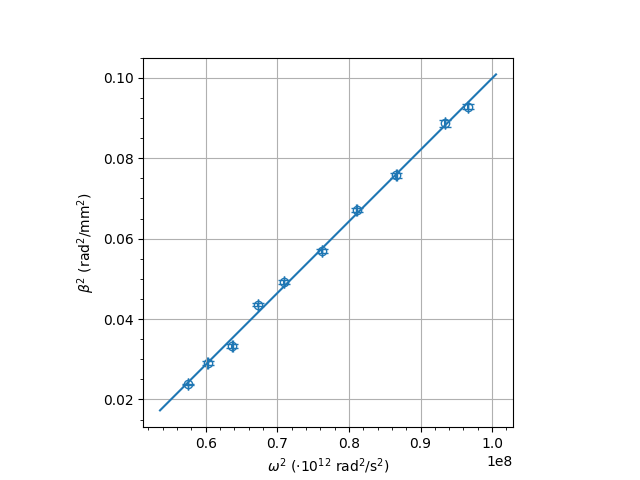
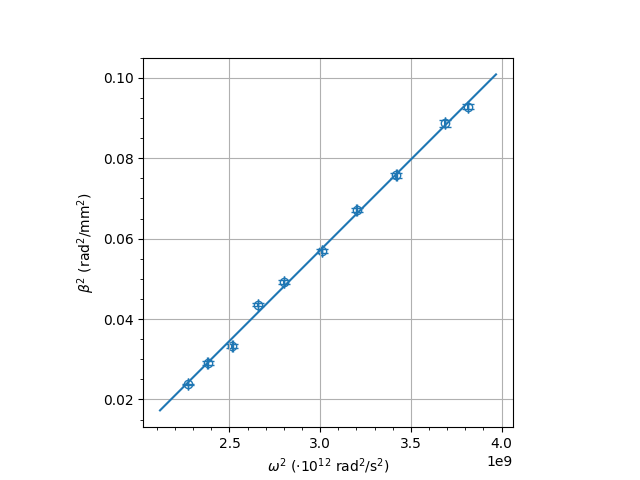
Correccion frecuencias

diff --git a/P2/P2.py b/P2/P2.py
@@ -17,6 +17,8 @@ M = text2dataframe(M)
 M = M.to_numpy()
 
 w = var(M[:,0], 1) # MHz
+w.redefine(lambda x: 2*np.pi*x[0])
+# w = f_var(lambda x: 2*np.pi*x[0], [f]) # 1e6 rad/s
 z_max = var(M[:,1], 0.2) # mm
 z_min = var(M[:,2], 0.2) # mm
 
@@ -40,9 +42,11 @@ plt.errorbar(k.value, w.value, w.err, k.err, **plot_args) # x, y, \Delta y, \Del
 ax = plt.gca()
 ax.set_box_aspect(1.0)
 plt.xlabel(r"$\beta$ (rad/mm)")
-plt.ylabel(r"$\omega$ (rad/s)")
+plt.ylabel(r"$\omega$ ($\cdot 10^6$ rad/s)")
 plt.grid(visible = True)
 plt.minorticks_on()
+
+c = var(299792456, 1) # m/s
 
 plt.savefig("./P2/images/w_vs_beta")
 # plt.show()
@@ -52,8 +56,6 @@ plt.savefig("./P2/images/w_vs_beta")
 a = var(2.25, 0.05) # cm
 a.redefine(lambda x: x[0]/100) # m
 k_c = f_var(lambda x: np.pi/x[0], [a], r"$k_c$") # rad/m
-
-c = var(299792456, 1) # m/s
 
 w_c = f_var(lambda x: x[0]*x[1], [k_c, c]) # rad/s
 f_c = f_var(lambda x: x[0]/2/np.pi, [w_c], "Frecuencia de corte teorica", "Hz")
@@ -79,11 +81,11 @@ n.show()
 
 
 # Esto al final creo que no es buena idea (alargar la linea del ajuste hasta que corte con el eje de abscisas):
-# f = lambda t: m.value*t + n.value
+# f = lambda t: c.value*t
 # t = np.linspace(-0.05*1e8, 1*1e8, 20)
 
 # ax = plt.gca()
-# ax.plot(t, f(t), color = "C0")
+#ax.plot(t, f(t), color = "C0")
 
 plt.savefig("./P2/images/beta2_vs_w2")
 # plt.show()
@@ -93,14 +95,14 @@ wc_exp = f_var(lambda x: sp.sqrt(-x[1]/x[0]), [m,n]) # rad/s
 fc_exp = f_var(lambda x: x[0]/2/np.pi, [wc_exp], "Frecuencia de corte experimental", "MHz")
 fc_exp.show()
 
-
 # Cálculo de las impedancias
 
 SWR = var([20, 1.45], [2, 0.05])
-Gamma = f_var(lambda x: (x[0]-1)/(x[0]+1), [SWR])
+Gamma = f_var(lambda x: (x[0]-1)/(x[0]+1), [SWR], "Modulo de gamma")
+Gamma.show()
 
 # Calculo la beta asociada a nuestro w
-w_current = var(8861, 1) # MHz
+w_current = var(2*np.pi*8861, 1) # MHz
 beta_current = f_var(lambda x: sp.sqrt(x[0]*x[1]**2 + x[2]), [m, w_current, n], r"$\beta$")
 beta_current.show()
 
@@ -118,3 +120,6 @@ Gamma_complex = f_var(lambda x: x[0]*sp.exp(I*x[1]), [Gamma, theta_Gamma])
 Z_0 = var(50, 0.1) # Ohm
 Z_carga = f_var(lambda x: x[0]*(1+x[1])/(1-x[1]), [Z_0, Gamma_complex], r"$Z_{carga}$", r"$\Omega$")
 Z_carga.show()
+
+# Z_carga_ideal = f_var(lambda x: x[0]*(1+x[1])/(1-x[1]), [Z_0, Gamma])
+# Z_carga_ideal.show()
